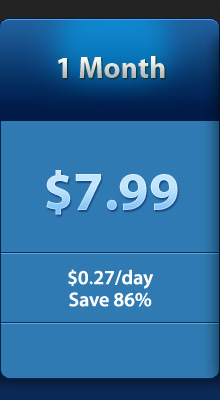
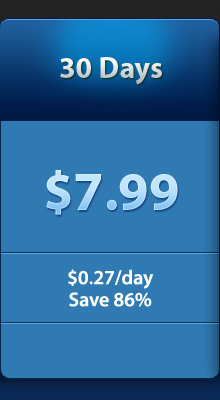
用户登陆时， 默认首页是 order/new； 所有页面的title都修改为“Leap4.net 飞跃重洋”； 替换一个月订单的图片

Changed region(s): [[0.2455, 0.12, 0.7636, 0.21]]

diff --git a/app/controllers/sessions_controller.rb b/app/controllers/sessions_controller.rb
@@ -13,7 +13,7 @@ class SessionsController < ApplicationController
     if invitation_code && invitation_code.within_deadline?
       session[:user_id] = User.find_by_name('guest').id
       # notice_stickie t("message.login_success")
-      redirect_to root_url
+      redirect_to new_order_path
     else
       warning_stickie t("message.un_invitation_code")
       render :new
